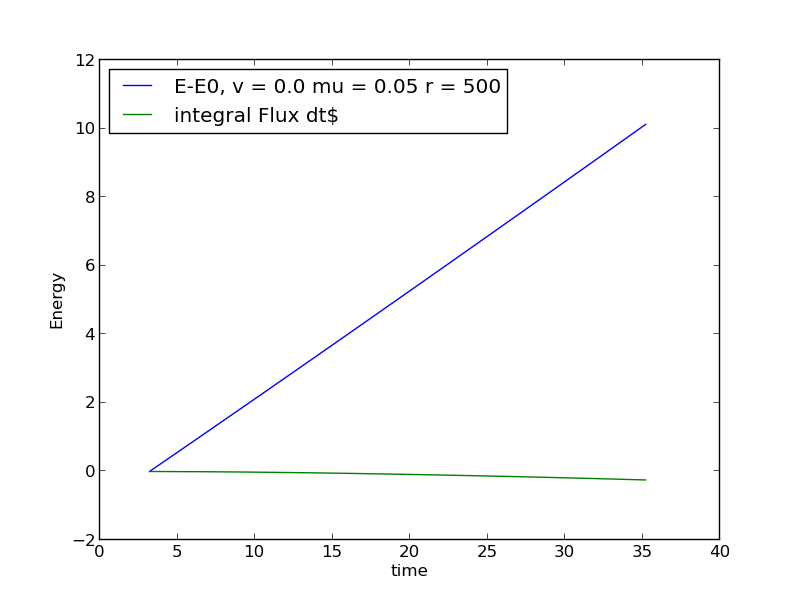
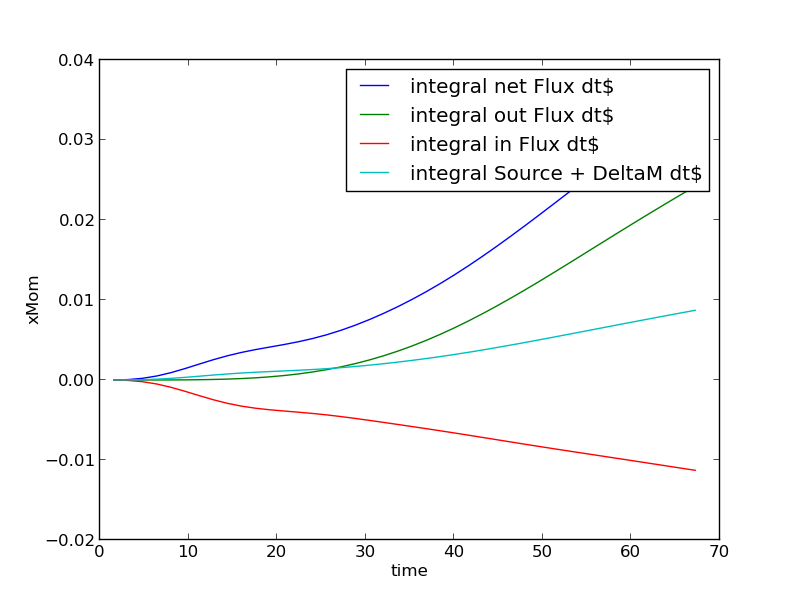
Updates for fluxes

diff --git a/FixedBGExamples/BoostedBHComplexScalar/Run1/plot.py b/FixedBGExamples/BoostedBHComplexScalar/Run1/plot.py
@@ -16,29 +16,65 @@ data2 = np.loadtxt("Force_integrals.dat")
 fig = plt.figure()
 
 # first dataset
-labelstring = "E-E0, v = " + str(v) + " mu = " + str(mu) + " r = " + str(r)
+labelstring = "M-M0, v = " + str(v) + " mu = " + str(mu) + " r = " + str(r)
 timedata = data1[:,0]
-Edata = data1[:,3] - data1[0,3]
-plt.plot(timedata, Edata, '-', lw = 1.0, label=labelstring)
+Mdata = data1[:,2] - data1[0,2]
+#plt.plot(timedata, Mdata, '-', lw = 1.0, label=labelstring)
 
-# second dataset
-labelstring = "integral Flux dt$"
+# second dataset net
+labelstring = "integral net Flux dt$"
 timedata = data2[:,0]
-Fdata = data2[:,4] - data2[:,2]
+Fdata = (data2[:,3] - data2[:,1])
 deltaE = np.zeros_like(Fdata)
 for i, F in enumerate(Fdata) :
    if i==0 :
-      deltaE[i] = F * timedata[0]
+      deltaE[i] = 0.0
    else :
       deltaE[i] = deltaE[i-1] + F * (timedata[i] - timedata[i-1])
 plt.plot(timedata, deltaE, '-', lw = 1.0, label=labelstring)
 
+# second dataset out
+labelstring = "integral out Flux dt$"
+timedata = data2[:,0]
+Fdata = data2[:,3]
+deltaE = np.zeros_like(Fdata)
+for i, F in enumerate(Fdata) :
+   if i==0 :
+      deltaE[i] = 0.0
+   else :
+      deltaE[i] = deltaE[i-1] + F * (timedata[i] - timedata[i-1])
+plt.plot(timedata, deltaE, '-', lw = 1.0, label=labelstring)
+
+# second dataset in
+labelstring = "integral in Flux dt$"
+timedata = data2[:,0]
+Fdata = data2[:,1]
+deltaE = np.zeros_like(Fdata)
+for i, F in enumerate(Fdata) :
+   if i==0 :
+      deltaE[i] = 0.0
+   else :
+      deltaE[i] = deltaE[i-1] + F * (timedata[i] - timedata[i-1])
+plt.plot(timedata, deltaE, '-', lw = 1.0, label=labelstring)
+
+# third dataset
+labelstring = "integral Source + DeltaM dt$"
+timedata = data1[:,0]
+Fdata = data1[:,1]
+deltaE = np.zeros_like(Fdata)
+for i, F in enumerate(Fdata) :
+   if i==0 :
+      deltaE[i] = 0.0
+   else :
+      deltaE[i] = deltaE[i-1] + F * (timedata[i] - timedata[i-1])
+plt.plot(timedata, deltaE + Mdata, '-', lw = 1.0, label=labelstring)
+
 # make the plot look nice
 plt.xlabel("time")
-plt.ylabel("Energy")
+plt.ylabel("xMom")
 #plt.xlim(0, 1000)
 #plt.ylim(1e-1, 1e2)
-plt.legend(loc=0)
+plt.legend()
 
 # save as png image
 filename = "EvsT" + "_mu" + str(mu) + ".png"

diff --git a/Examples/WarpDrive/Run3/PlotWeyl.py b/Examples/WarpDrive/Run3/PlotWeyl.py
@@ -1,0 +1,52 @@
+# A simple python script to plot the GW
+# signals over time, for a chosen mode
+
+import numpy as np;
+import matplotlib.pyplot as plt;
+from mpl_toolkits.mplot3d import Axes3D
+from matplotlib import cm
+from matplotlib.ticker import LinearLocator, FormatStrFormatter
+
+# coord locations of extraction radii
+R0 = 2.0 #200
+R1 = 2.0 #300
+# Total ADM mass
+M = 1.0
+# The mode, as text
+mode = "22"
+# output data from running merger
+data = np.loadtxt("Weyl_integral_" + mode + ".dat")
+
+# make the plot
+fig = plt.figure()
+
+# first radius
+r0 = 0 #R0 + M*np.log(R0/(2.0*M) - 1.0)
+timedata0 = (data[:,0] - r0) / M
+fluxdata0 = data[:,1]
+plt.plot(timedata0, fluxdata0, '-', lw = 0.75, label="r0")
+
+# second radius
+r1 = 50 #R1 + M*np.log(R1/(2.0*M) - 1.0)
+timedata1 = (data[:,0] - r1) / M
+fluxdata1 = data[:,3]
+diff = fluxdata1[0] - fluxdata0[0]
+plt.plot(timedata1, fluxdata1 - diff, '-', lw = 0.75, label="r1")
+
+# third radius
+r2 = 100 #R1 + M*np.log(R1/(2.0*M) - 1.0)
+timedata2 = (data[:,0] - r2) / M
+fluxdata2 = data[:,5]
+diff = fluxdata2[0] - fluxdata0[0]
+plt.plot(timedata2, fluxdata2 - diff, '--', lw = 0.75, label="r2")
+
+# make the plot look nice
+plt.xlabel("time t / M")
+plt.ylabel("Re (Psi4) el, em = " + mode)
+#plt.xlim(190, 2400)
+#plt.ylim(1.85, 1.88)
+plt.legend()
+
+# save as png image
+filename = "Weyl_" + mode + ".png"
+plt.savefig(filename)

diff --git a/Source/FixedBackground/FixedBGMomentumFlux.hpp b/Source/FixedBackground/FixedBGMomentumFlux.hpp
@@ -107,8 +107,8 @@ template <class matter_t, class background_t> class FixedBGMomentumFlux
         // so just need the dA relating to the metric
         Mdot *= sqrt(det_Sigma) / r2sintheta;
 
-        // Now the x Momentum density with volume factor
-        data_t xMom = emtensor.Si[0] * sqrt(det_gamma);
+        // Now (minus) the x Momentum density with volume factor
+        data_t xMom = -emtensor.Si[0] * sqrt(det_gamma);
 
         // How big is the source of i mom?
         Tensor<1, data_t> source;
@@ -121,8 +121,8 @@ template <class matter_t, class background_t> class FixedBGMomentumFlux
                 source[i] += emtensor.Si[j] * metric_vars.d1_shift[j][i];
                 FOR2(k, l)
                 {
-                    source[i] += gamma_UU[k][l] * emtensor.Sij[k][j] *
-                                 chris_phys.ULL[j][l][i];
+                    source[i] += metric_vars.lapse * gamma_UU[k][l] *
+                                 emtensor.Sij[k][j] * chris_phys.ULL[j][l][i];
                 }
             }
         }

diff --git a/FixedBGExamples/BoostedBHComplexScalar/Run0/plot.py b/FixedBGExamples/BoostedBHComplexScalar/Run0/plot.py
@@ -26,11 +26,15 @@ labelstring = "integral Flux dt$"
 timedata = data2[:,0]
 Fdata = data2[:,4] - data2[:,2]
 deltaE = np.zeros_like(Fdata)
+size = np.size(Fdata)
 for i, F in enumerate(Fdata) :
-   if i==0 :
-      deltaE[i] = 0.0;
+   if (i==0) :
+      deltaE[i] = 0.0
+   elif (i == (size-1)):
+      deltaE[i] = deltaE[i-1]
    else :
-      deltaE[i] = deltaE[i-1] + F * (timedata[i] - timedata[i-1])
+      deltaE[i] = deltaE[i-1] + (0.5 * (Fdata[i+1] + Fdata[i-1]) 
+                                     * (timedata[i] - timedata[i-1]))
 plt.plot(timedata, deltaE, '-', lw = 1.0, label=labelstring)
 #plt.plot(timedata, Fdata, '-', lw = 1.0, label=labelstring)
 
